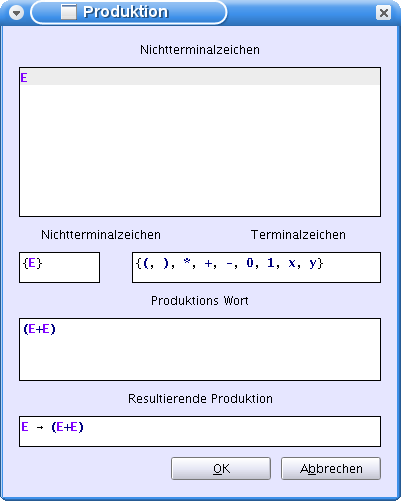
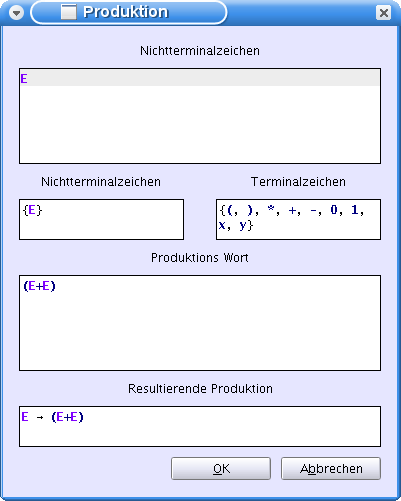
- Correct the production dialog gui. - Update the manual.
git-svn-id: https://vcs.informatik.uni-siegen.de/svn/gtitool/trunk@1164 d1fb0f2a-2248-4f96-a540-7c12a6a72a62

Changed region(s): [[0.0299, 0.2994, 0.9576, 0.6886], [0.0299, 0.7186, 0.9576, 0.8683], [0.0599, 0.0898, 0.9277, 0.1497]]

diff --git a/de.unisiegen.gtitool.ui/source/de/unisiegen/gtitool/ui/netbeans/TransitionDialogForm.java b/de.unisiegen.gtitool.ui/source/de/unisiegen/gtitool/ui/netbeans/TransitionDialogForm.java
@@ -54,7 +54,7 @@ public class TransitionDialogForm extends JDialog implements GUIClass <Transitio
      * WARNING: Do NOT modify this code. The content of this method is
      * always regenerated by the Form Editor.
      */
-    // <editor-fold defaultstate="collapsed" desc=" Generated Code ">//GEN-BEGIN:initComponents
+    // <editor-fold defaultstate="collapsed" desc="Generated Code">//GEN-BEGIN:initComponents
     private void initComponents() {
         java.awt.GridBagConstraints gridBagConstraints;
 
@@ -81,8 +81,8 @@ public class TransitionDialogForm extends JDialog implements GUIClass <Transitio
         jGTIPanelButtons = new de.unisiegen.gtitool.ui.swing.JGTIPanel();
         jGTIButtonOk = new de.unisiegen.gtitool.ui.swing.JGTIButton();
         jGTIButtonCancel = new de.unisiegen.gtitool.ui.swing.JGTIButton();
-
-        getContentPane().setLayout(new java.awt.GridBagLayout());
+        jGTIColumn0 = new de.unisiegen.gtitool.ui.swing.JGTIPanel();
+        jGTIColumn1 = new de.unisiegen.gtitool.ui.swing.JGTIPanel();
 
         setDefaultCloseOperation(javax.swing.WindowConstants.DO_NOTHING_ON_CLOSE);
         java.util.ResourceBundle bundle = java.util.ResourceBundle.getBundle("de/unisiegen/gtitool/ui/i18n/messages"); // NOI18N
@@ -93,6 +93,7 @@ public class TransitionDialogForm extends JDialog implements GUIClass <Transitio
                 formWindowClosing(evt);
             }
         });
+        getContentPane().setLayout(new java.awt.GridBagLayout());
 
         jGTILabelNonterminalSymbol.setHorizontalAlignment(javax.swing.SwingConstants.CENTER);
         jGTILabelNonterminalSymbol.setText(bundle.getString("TransitionDialog.Header")); // NOI18N
@@ -144,7 +145,6 @@ public class TransitionDialogForm extends JDialog implements GUIClass <Transitio
                 jGTIListAlphabetValueChanged(evt);
             }
         });
-
         jGTIScrollPaneAlphabet.setViewportView(jGTIListAlphabet);
 
         gridBagConstraints = new java.awt.GridBagConstraints();
@@ -157,7 +157,7 @@ public class TransitionDialogForm extends JDialog implements GUIClass <Transitio
         gridBagConstraints.insets = new java.awt.Insets(0, 0, 0, 5);
         jGTIPanelMoveButtons.add(jGTIScrollPaneAlphabet, gridBagConstraints);
 
-        jGTIButtonMoveLeft.setIcon(new javax.swing.ImageIcon(getClass().getResource("/de/unisiegen/gtitool/ui/icon/large/left.png")));
+        jGTIButtonMoveLeft.setIcon(new javax.swing.ImageIcon(getClass().getResource("/de/unisiegen/gtitool/ui/icon/large/left.png"))); // NOI18N
         jGTIButtonMoveLeft.setEnabled(false);
         jGTIButtonMoveLeft.setMaximumHeight(32);
         jGTIButtonMoveLeft.setMaximumWidth(32);
@@ -168,7 +168,6 @@ public class TransitionDialogForm extends JDialog implements GUIClass <Transitio
                 jGTIButtonMoveLeftActionPerformed(evt);
             }
         });
-
         gridBagConstraints = new java.awt.GridBagConstraints();
         gridBagConstraints.gridx = 1;
         gridBagConstraints.gridy = 0;
@@ -177,7 +176,7 @@ public class TransitionDialogForm extends JDialog implements GUIClass <Transitio
         gridBagConstraints.insets = new java.awt.Insets(5, 5, 5, 5);
         jGTIPanelMoveButtons.add(jGTIButtonMoveLeft, gridBagConstraints);
 
-        jGTIButtonMoveRight.setIcon(new javax.swing.ImageIcon(getClass().getResource("/de/unisiegen/gtitool/ui/icon/large/right.png")));
+        jGTIButtonMoveRight.setIcon(new javax.swing.ImageIcon(getClass().getResource("/de/unisiegen/gtitool/ui/icon/large/right.png"))); // NOI18N
         jGTIButtonMoveRight.setEnabled(false);
         jGTIButtonMoveRight.setMaximumHeight(32);
         jGTIButtonMoveRight.setMaximumWidth(32);
@@ -188,7 +187,6 @@ public class TransitionDialogForm extends JDialog implements GUIClass <Transitio
                 jGTIButtonMoveRightActionPerformed(evt);
             }
         });
-
         gridBagConstraints = new java.awt.GridBagConstraints();
         gridBagConstraints.gridx = 1;
         gridBagConstraints.gridy = 1;
@@ -203,7 +201,6 @@ public class TransitionDialogForm extends JDialog implements GUIClass <Transitio
                 jGTIListChangeOverSetValueChanged(evt);
             }
         });
-
         jGTIScrollPaneChangeOverSet.setViewportView(jGTIListChangeOverSet);
 
         gridBagConstraints = new java.awt.GridBagConstraints();
@@ -258,7 +255,6 @@ public class TransitionDialogForm extends JDialog implements GUIClass <Transitio
         gridBagConstraints.weightx = 1.0;
         gridBagConstraints.insets = new java.awt.Insets(5, 16, 5, 16);
         getContentPane().add(jGTIPanelPushDown, gridBagConstraints);
-
         gridBagConstraints = new java.awt.GridBagConstraints();
         gridBagConstraints.gridx = 0;
         gridBagConstraints.gridy = 5;
@@ -267,7 +263,6 @@ public class TransitionDialogForm extends JDialog implements GUIClass <Transitio
         gridBagConstraints.weighty = 0.5;
         gridBagConstraints.insets = new java.awt.Insets(5, 0, 5, 16);
         getContentPane().add(styledWordParserPanelRead, gridBagConstraints);
-
         gridBagConstraints = new java.awt.GridBagConstraints();
         gridBagConstraints.gridx = 1;
         gridBagConstraints.gridy = 5;
@@ -332,7 +327,6 @@ public class TransitionDialogForm extends JDialog implements GUIClass <Transitio
                 jGTIButtonOkActionPerformed(evt);
             }
         });
-
         gridBagConstraints = new java.awt.GridBagConstraints();
         gridBagConstraints.gridx = 0;
         gridBagConstraints.gridy = 8;
@@ -349,7 +343,6 @@ public class TransitionDialogForm extends JDialog implements GUIClass <Transitio
                 jGTIButtonCancelActionPerformed(evt);
             }
         });
-
         gridBagConstraints = new java.awt.GridBagConstraints();
         gridBagConstraints.gridx = 1;
         gridBagConstraints.gridy = 8;
@@ -363,8 +356,26 @@ public class TransitionDialogForm extends JDialog implements GUIClass <Transitio
         gridBagConstraints.gridwidth = 2;
         gridBagConstraints.fill = java.awt.GridBagConstraints.HORIZONTAL;
         gridBagConstraints.weightx = 1.0;
-        gridBagConstraints.insets = new java.awt.Insets(5, 16, 16, 16);
+        gridBagConstraints.insets = new java.awt.Insets(5, 16, 0, 16);
         getContentPane().add(jGTIPanelButtons, gridBagConstraints);
+
+        jGTIColumn0.setMinimumSize(new java.awt.Dimension(200, 16));
+        jGTIColumn0.setPreferredSize(new java.awt.Dimension(200, 16));
+        gridBagConstraints = new java.awt.GridBagConstraints();
+        gridBagConstraints.gridx = 0;
+        gridBagConstraints.gridy = 11;
+        gridBagConstraints.fill = java.awt.GridBagConstraints.BOTH;
+        gridBagConstraints.weightx = 1.0;
+        getContentPane().add(jGTIColumn0, gridBagConstraints);
+
+        jGTIColumn1.setMinimumSize(new java.awt.Dimension(200, 16));
+        jGTIColumn1.setPreferredSize(new java.awt.Dimension(200, 16));
+        gridBagConstraints = new java.awt.GridBagConstraints();
+        gridBagConstraints.gridx = 1;
+        gridBagConstraints.gridy = 11;
+        gridBagConstraints.fill = java.awt.GridBagConstraints.BOTH;
+        gridBagConstraints.weightx = 1.0;
+        getContentPane().add(jGTIColumn1, gridBagConstraints);
 
         java.awt.Dimension screenSize = java.awt.Toolkit.getDefaultToolkit().getScreenSize();
         setBounds((screenSize.width-400)/2, (screenSize.height-500)/2, 400, 500);
@@ -403,6 +414,8 @@ public class TransitionDialogForm extends JDialog implements GUIClass <Transitio
     public de.unisiegen.gtitool.ui.swing.JGTIButton jGTIButtonMoveLeft;
     public de.unisiegen.gtitool.ui.swing.JGTIButton jGTIButtonMoveRight;
     public de.unisiegen.gtitool.ui.swing.JGTIButton jGTIButtonOk;
+    public de.unisiegen.gtitool.ui.swing.JGTIPanel jGTIColumn0;
+    public de.unisiegen.gtitool.ui.swing.JGTIPanel jGTIColumn1;
     public de.unisiegen.gtitool.ui.swing.JGTILabel jGTILabelAlphabet;
     public de.unisiegen.gtitool.ui.swing.JGTILabel jGTILabelChangeOverSet;
     public de.unisiegen.gtitool.ui.swing.JGTILabel jGTILabelNonterminalSymbol;

diff --git a/de.unisiegen.gtitool.ui/source/de/unisiegen/gtitool/ui/netbeans/ProductionDialogForm.java b/de.unisiegen.gtitool.ui/source/de/unisiegen/gtitool/ui/netbeans/ProductionDialogForm.java
@@ -54,7 +54,7 @@ public class ProductionDialogForm extends JDialog implements GUIClass <Productio
      * WARNING: Do NOT modify this code. The content of this method is
      * always regenerated by the Form Editor.
      */
-    // <editor-fold defaultstate="collapsed" desc=" Generated Code ">//GEN-BEGIN:initComponents
+    // <editor-fold defaultstate="collapsed" desc="Generated Code">//GEN-BEGIN:initComponents
     private void initComponents() {
         java.awt.GridBagConstraints gridBagConstraints;
 
@@ -73,8 +73,8 @@ public class ProductionDialogForm extends JDialog implements GUIClass <Productio
         jGTIPanelButtons = new de.unisiegen.gtitool.ui.swing.JGTIPanel();
         jGTIButtonOk = new de.unisiegen.gtitool.ui.swing.JGTIButton();
         jGTIButtonCancel = new de.unisiegen.gtitool.ui.swing.JGTIButton();
-
-        getContentPane().setLayout(new java.awt.GridBagLayout());
+        jGTIColumn0 = new de.unisiegen.gtitool.ui.swing.JGTIPanel();
+        jGTIColumn1 = new de.unisiegen.gtitool.ui.swing.JGTIPanel();
 
         setDefaultCloseOperation(javax.swing.WindowConstants.DO_NOTHING_ON_CLOSE);
         java.util.ResourceBundle bundle = java.util.ResourceBundle.getBundle("de/unisiegen/gtitool/ui/i18n/messages"); // NOI18N
@@ -85,6 +85,7 @@ public class ProductionDialogForm extends JDialog implements GUIClass <Productio
                 formWindowClosing(evt);
             }
         });
+        getContentPane().setLayout(new java.awt.GridBagLayout());
 
         jGTILabelNonterminalSymbol.setHorizontalAlignment(javax.swing.SwingConstants.CENTER);
         jGTILabelNonterminalSymbol.setText(bundle.getString("ProductionDialog.NonTerminalSymbol")); // NOI18N
@@ -102,7 +103,6 @@ public class ProductionDialogForm extends JDialog implements GUIClass <Productio
                 handleSelectionChange(evt);
             }
         });
-
         jGTIScrollPaneAlphabet.setViewportView(jGTIList);
 
         gridBagConstraints = new java.awt.GridBagConstraints();
@@ -180,7 +180,6 @@ public class ProductionDialogForm extends JDialog implements GUIClass <Productio
         gridBagConstraints.weightx = 1.0;
         gridBagConstraints.insets = new java.awt.Insets(5, 16, 5, 16);
         getContentPane().add(jGTILabelProductionWord, gridBagConstraints);
-
         gridBagConstraints = new java.awt.GridBagConstraints();
         gridBagConstraints.gridx = 0;
         gridBagConstraints.gridy = 5;
@@ -221,7 +220,6 @@ public class ProductionDialogForm extends JDialog implements GUIClass <Productio
                 jGTIButtonOkActionPerformed(evt);
             }
         });
-
         gridBagConstraints = new java.awt.GridBagConstraints();
         gridBagConstraints.gridx = 0;
         gridBagConstraints.gridy = 8;
@@ -238,7 +236,6 @@ public class ProductionDialogForm extends JDialog implements GUIClass <Productio
                 jGTIButtonCancelActionPerformed(evt);
             }
         });
-
         gridBagConstraints = new java.awt.GridBagConstraints();
         gridBagConstraints.gridx = 1;
         gridBagConstraints.gridy = 8;
@@ -252,8 +249,26 @@ public class ProductionDialogForm extends JDialog implements GUIClass <Productio
         gridBagConstraints.gridwidth = 2;
         gridBagConstraints.fill = java.awt.GridBagConstraints.HORIZONTAL;
         gridBagConstraints.weightx = 1.0;
-        gridBagConstraints.insets = new java.awt.Insets(5, 16, 16, 16);
+        gridBagConstraints.insets = new java.awt.Insets(5, 16, 0, 16);
         getContentPane().add(jGTIPanelButtons, gridBagConstraints);
+
+        jGTIColumn0.setMinimumSize(new java.awt.Dimension(200, 16));
+        jGTIColumn0.setPreferredSize(new java.awt.Dimension(200, 16));
+        gridBagConstraints = new java.awt.GridBagConstraints();
+        gridBagConstraints.gridx = 0;
+        gridBagConstraints.gridy = 9;
+        gridBagConstraints.fill = java.awt.GridBagConstraints.BOTH;
+        gridBagConstraints.weightx = 1.0;
+        getContentPane().add(jGTIColumn0, gridBagConstraints);
+
+        jGTIColumn1.setMinimumSize(new java.awt.Dimension(200, 16));
+        jGTIColumn1.setPreferredSize(new java.awt.Dimension(200, 16));
+        gridBagConstraints = new java.awt.GridBagConstraints();
+        gridBagConstraints.gridx = 1;
+        gridBagConstraints.gridy = 9;
+        gridBagConstraints.fill = java.awt.GridBagConstraints.BOTH;
+        gridBagConstraints.weightx = 1.0;
+        getContentPane().add(jGTIColumn1, gridBagConstraints);
 
         java.awt.Dimension screenSize = java.awt.Toolkit.getDefaultToolkit().getScreenSize();
         setBounds((screenSize.width-400)/2, (screenSize.height-500)/2, 400, 500);
@@ -278,6 +293,8 @@ public class ProductionDialogForm extends JDialog implements GUIClass <Productio
     // Variables declaration - do not modify//GEN-BEGIN:variables
     public de.unisiegen.gtitool.ui.swing.JGTIButton jGTIButtonCancel;
     public de.unisiegen.gtitool.ui.swing.JGTIButton jGTIButtonOk;
+    public de.unisiegen.gtitool.ui.swing.JGTIPanel jGTIColumn0;
+    public de.unisiegen.gtitool.ui.swing.JGTIPanel jGTIColumn1;
     public de.unisiegen.gtitool.ui.swing.JGTILabel jGTILabelNonterminalAlphabet;
     public de.unisiegen.gtitool.ui.swing.JGTILabel jGTILabelNonterminalSymbol;
     public de.unisiegen.gtitool.ui.swing.JGTILabel jGTILabelProductionWord;
